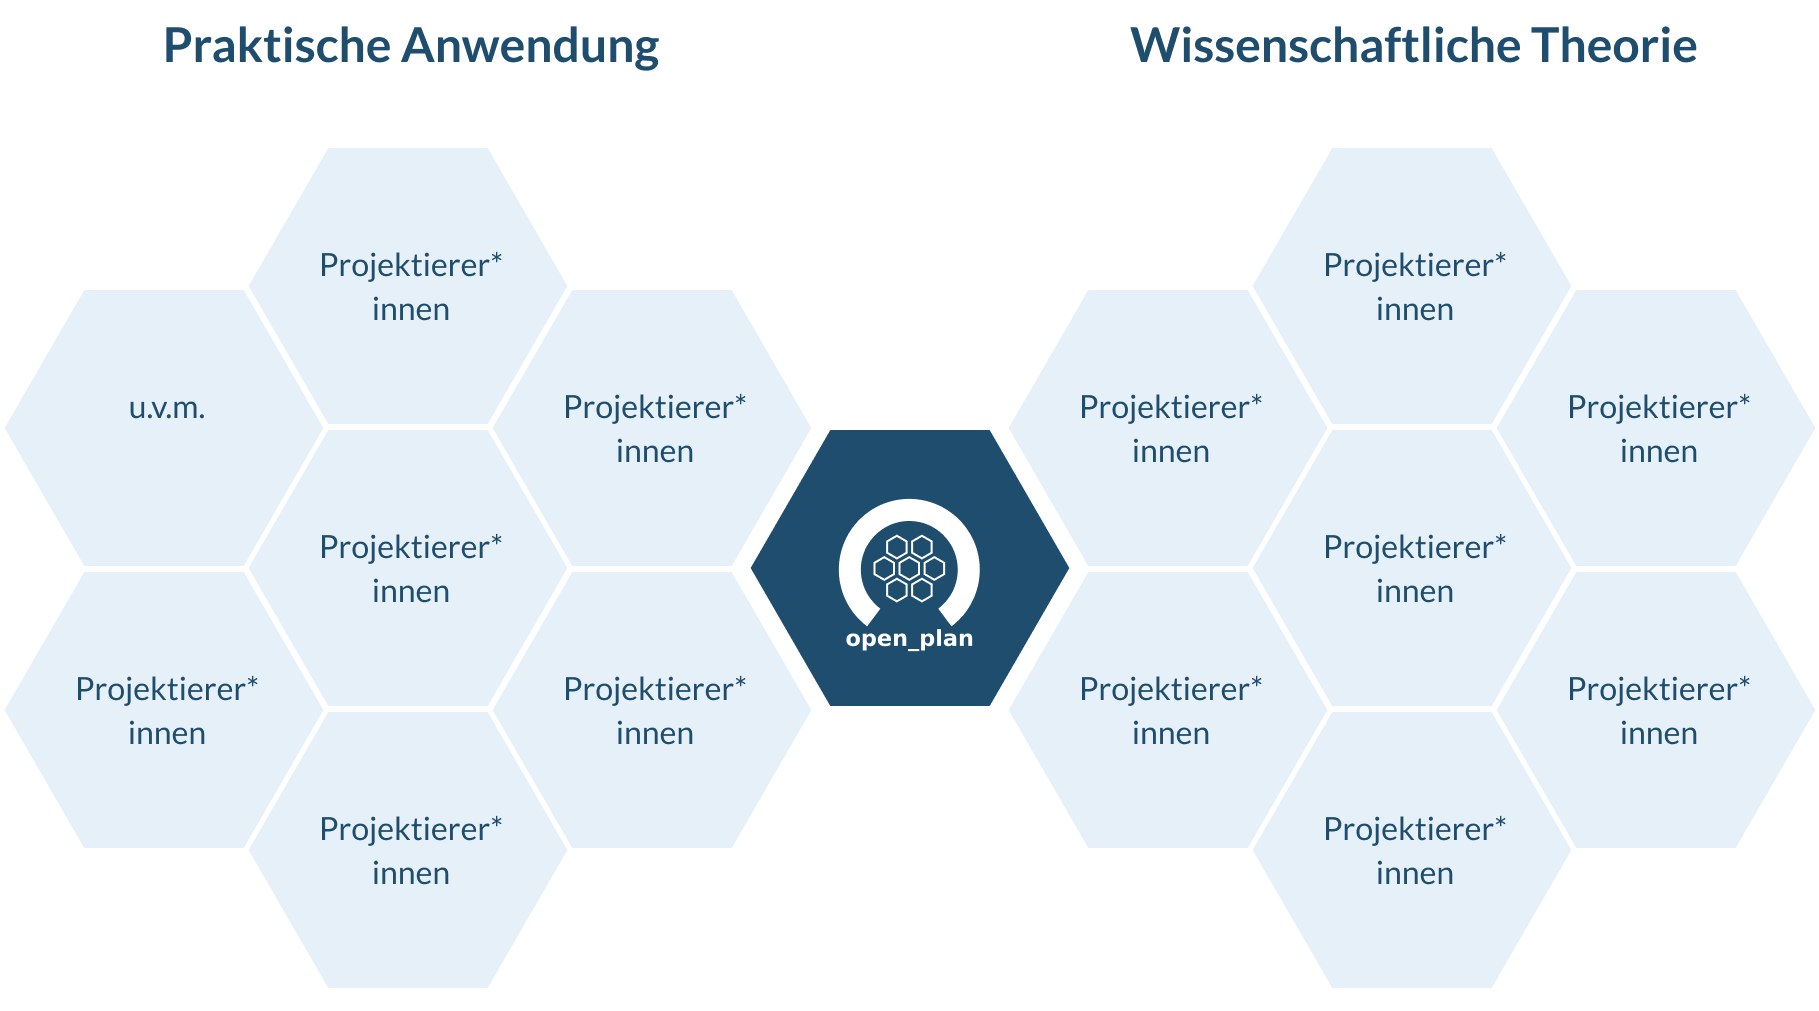
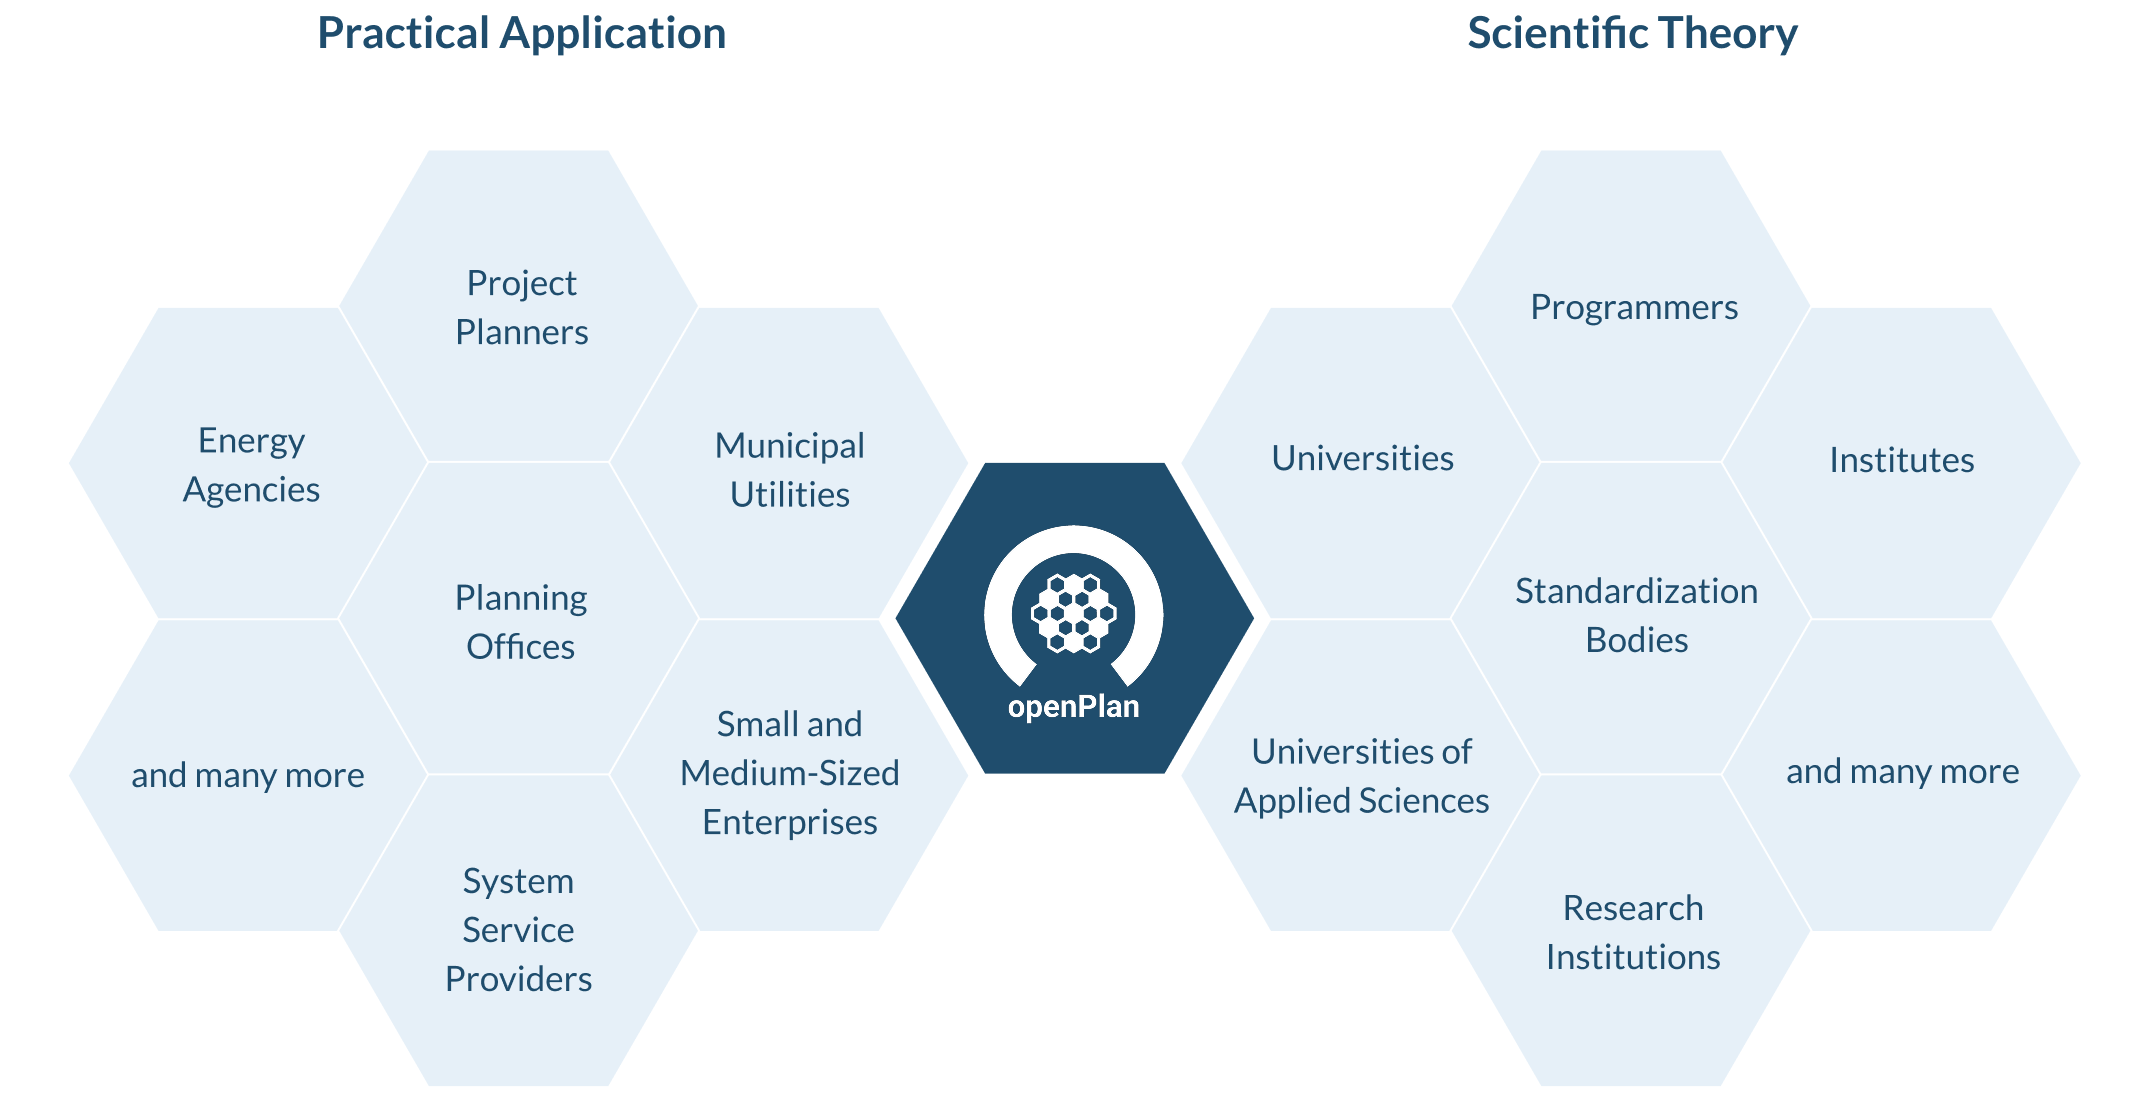
Target group images

diff --git a/app/templates/landing/default.html b/app/templates/landing/default.html
@@ -120,8 +120,11 @@
 			<div class="target2__heading">
 				<h2>{% translate 'Target Groups' %}</h2>
 			</div>
-			<!-- TODO make it lang dependent -->
-			<img src="{% static 'assets/illustrations/target-groups.png' %}" alt="Target groups categories" width="1280">
+			{% if "de" in LANGUAGE_NAME %}
+				<img src="{% static 'assets/illustrations/target_groups_de.png' %}" alt="Target groups categories" width="1280">
+			{% else %}
+				<img src="{% static 'assets/illustrations/target-groups.png' %}" alt="Target groups categories" width="1280">
+			{% endif %}
 		</div>
 	</section>
 
